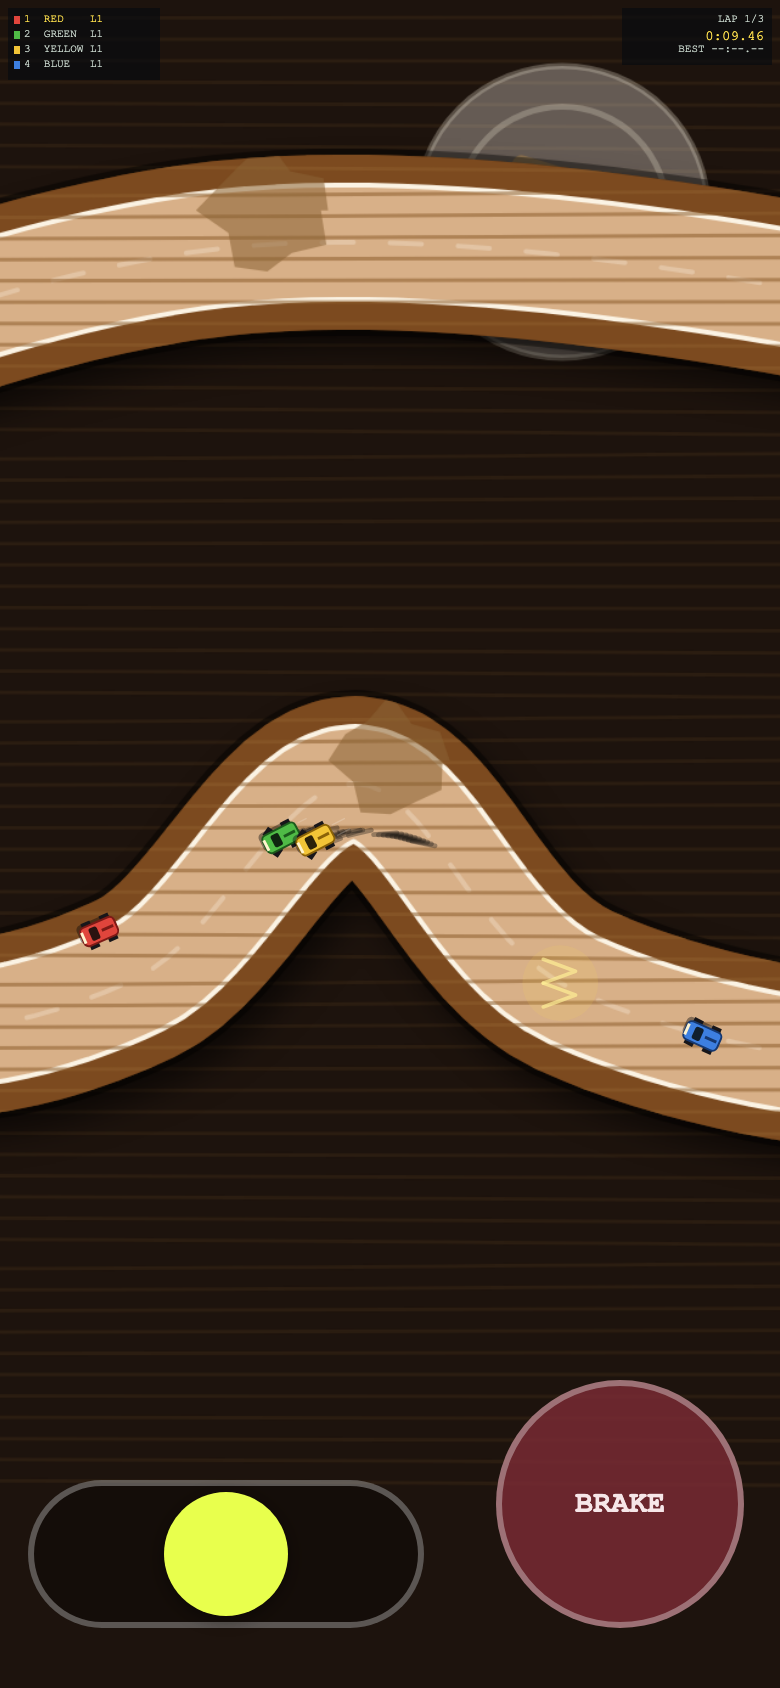
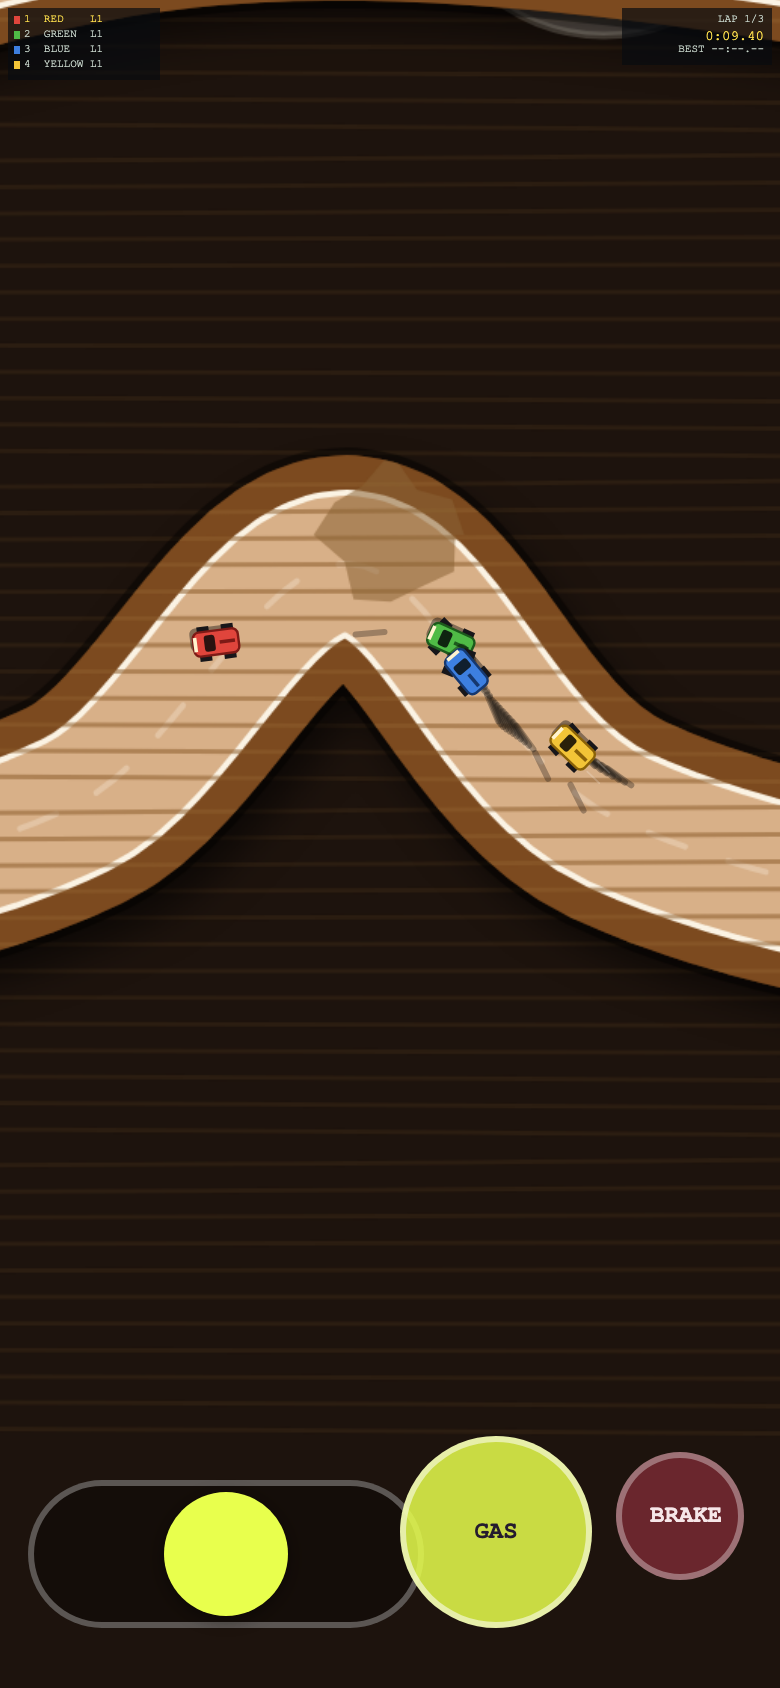
Put the throttle back on the button, and have the aid lift for corners
Making the brake somebody's only control was a mistake, and an instructive one.
The brake here takes most of the grip with it - that is the whole trick of the
game, and it is why a stab of it steps the back out - so handing a struggling
player the automatic throttle and one brake button gave them the hardest control
in the game as their only input. Lifting off costs nothing and slows you down.
So the throttle is a button again by default, with the brake smaller beside it,
and automatic is still there in the menu for anybody who wants it.

The driving aid now does the lifting too: it works out how fast the road ahead
will take and lets go of the throttle you are holding if you are over it. Only
the strongest setting reaches for the brake, and only when the car is pointed
more or less where it is going, because braking mid-slide is how you spin. It can
only ever slow you down, which is what keeps an aided lap honest on the board.

A phone now also starts against EASY. Learning to steer with a thumb and racing
three quick cars are two problems and there is no reason to hand somebody both.

Measured over 24 races of a deliberately clumsy thumb: off the road 4.0 a race to
2.1, laps completed 1.6 to 2.7, best lap 17.2s to 13.8s. Hands off the wheel the
car does not move at any setting, which is the line this aid does not cross.

One bug on the way: the touch defaults were being applied from where the controls
[…]

diff --git a/src/main.js b/src/main.js
@@ -12,7 +12,7 @@ import {
 } from './input.js';
 import { isTouchDevice } from './touch.js';
 import { TouchDrive } from './touchdrive.js';
-import { ASSIST, roadDemand } from './assist.js';
+import { ASSIST, easeOff, roadDemand } from './assist.js';
 import { createRace, formatLap, lapMs } from './game/state.js';
 import { step } from './game/sim.js';
 import { TRACKS, loadTrack, trackByKey } from './game/tracks.js';
@@ -115,8 +115,6 @@ if (onTouchDevice) {
   // Only worth offering where there is a thumb to save.
   document.getElementById('throttleRow').classList.remove('hidden');
   document.getElementById('assistRow').classList.remove('hidden');
-  setThrottle(globalThis.localStorage?.getItem('webracing.throttle') !== 'hold');
-  setAssist(globalThis.localStorage?.getItem('webracing.assist') || 'some');
   devices.touch = touch;
 }
 
@@ -281,6 +279,7 @@ function frame(now) {
       // steering comes out as half a turn of lock, and mixed with wherever the
       // road goes if the steering aid is on.
       touch.road = touch.assist ? roadDemand(game.state, game.seat) : 0;
+      touch.ease = easeOff(game.state, game.seat, touch.assist);
       touch.advance();
       game.transport.sample(tick);
       if (!game.transport.ready(tick)) break;
@@ -663,7 +662,7 @@ renderBindings();
 // --- Menu --------------------------------------------------------------------
 
 let mode = '1';
-let difficulty = 'normal';
+let difficulty = globalThis.localStorage?.getItem('webracing.difficulty') || 'normal';
 let trackKey = TRACKS[0].key;
 
 function lapCount() {
@@ -705,12 +704,19 @@ document.querySelectorAll('[data-mode]').forEach((btn) => {
   });
 });
 
-document.querySelectorAll('[data-difficulty]').forEach((btn) => {
-  btn.addEventListener('click', () => {
-    difficulty = btn.dataset.difficulty;
-    document.querySelectorAll('[data-difficulty]').forEach((b) => b.classList.toggle('active', b === btn));
-    renderScores(trackKey, boardTier());
+function setDifficulty(key) {
+  difficulty = key;
+  document.querySelectorAll('[data-difficulty]').forEach((b) => {
+    b.classList.toggle('active', b.dataset.difficulty === key);
   });
+  try {
+    globalThis.localStorage?.setItem('webracing.difficulty', key);
+  } catch { /* private mode */ }
+  renderScores(trackKey, boardTier());
+}
+
+document.querySelectorAll('[data-difficulty]').forEach((btn) => {
+  btn.addEventListener('click', () => setDifficulty(btn.dataset.difficulty));
 });
 
 document.querySelectorAll('[data-sound]').forEach((btn) => {
@@ -897,6 +903,20 @@ addEventListener('pointerdown', startMusicOnFirstGesture);
 addEventListener('keydown', startMusicOnFirstGesture);
 
 showLocalSeats();
+
+// What a phone starts with, once everything the menu needs exists. Kept down
+// here on purpose: called from where the controls are attached, six hundred
+// lines up, setDifficulty assigns to a `let` that has not been declared yet -
+// which is a ReferenceError on every phone and invisible to a suite that never
+// loads the page.
+if (onTouchDevice) {
+  setThrottle(globalThis.localStorage?.getItem('webracing.throttle') === 'auto');
+  setAssist(globalThis.localStorage?.getItem('webracing.assist') || 'lots');
+  // A gentler field to learn against: three NORMAL cars while you are also
+  // learning to steer with a thumb is two problems at once.
+  if (!globalThis.localStorage?.getItem('webracing.difficulty')) setDifficulty('easy');
+}
+
 renderScores(trackKey, boardTier());
 syncScores();
 sizeCanvas();

diff --git a/src/assist.js b/src/assist.js
@@ -15,7 +15,7 @@
  */
 
 import { TOP_SPEED } from './constants.js';
-import { pointAt } from './game/path.js';
+import { bendAhead, pointAt } from './game/path.js';
 
 /** How far up the road it reads, at a crawl and at speed. */
 const LOOK_NEAR = 95;
@@ -58,10 +58,50 @@ export function roadDemand(state, seat) {
 }
 
 /**
+ * Coming off the power for a corner, which is the other half of the aid.
+ *
+ * The brake in this game takes most of the grip with it - that is the whole
+ * trick of the thing, and it is why a stab of it steps the back out. Which makes
+ * it completely the wrong control to hand somebody who is struggling. Lifting
+ * off costs nothing and slows you down, so that is what this does: it works out
+ * how fast the road ahead will actually take, and if you are over it, it lets go
+ * of the throttle you are holding.
+ *
+ * It can only ever slow you down. There is no version of this that makes you
+ * quicker than somebody who lifted at the right moment on a keyboard, which is
+ * what keeps an aided lap honest on the record board.
+ *
+ * At the strongest setting it will use the brake as well, and only when the car
+ * is pointed more or less where it is going - braking mid-slide is how you spin,
+ * and an aid that spun you would be worse than no aid.
+ */
+const LOOK_AHEAD = 165;
+const CORNER_BITE = 0.82;
+const SLIDING = 70;
+
+export function easeOff(state, seat, strength) {
+  const car = state?.cars?.[seat];
+  if (!strength || !car || car.mode !== 'run' || !state.track) return { lift: false, brake: false };
+  const { path } = state.track;
+  const speed = Math.sqrt(car.vx * car.vx + car.vy * car.vy);
+  const bend = bendAhead(path, car.along + 20, LOOK_AHEAD);
+  const takes = TOP_SPEED * state.track.handling.top * (1 - bend * CORNER_BITE);
+  const over = speed / Math.max(60, takes);
+  // Some help lifts late and only for the worst of it; lots lifts early. The
+  // margin on top matters: without it the strongest setting lifted on a straight,
+  // because a table with a handling penalty makes the speed the road "takes"
+  // fractionally lower than the speed the car will actually reach.
+  const lift = over > 1.06 + (1 - strength) * 0.3;
+  const brake = strength > 0.7 && over > 1.3 && Math.abs(car.slide) < SLIDING;
+  return { lift, brake };
+}
+
+/**
  * How much of that gets mixed in.
  *
  * Off is the keyboard's deal: what you press is what the car does. The other two
- * let the road decide *how much* lock, while you decide which way - see blend().
+ * let the road decide *how much* lock while you decide which way - see blend() -
+ * and take their foot off for a corner you were going to arrive at too quickly.
  */
 export const ASSIST = {
   off: { key: 'off', label: 'Off', strength: 0 },

diff --git a/src/touchdrive.js b/src/touchdrive.js
@@ -94,6 +94,8 @@ export class TouchDrive extends TouchControls {
      */
     this.assist = 0;
     this.road = 0;
+    /** And whether it wants the power off for what is coming. */
+    this.ease = { lift: false, brake: false };
   }
 
   /** @param {{root, stick, knob, gas, brake}} el */
@@ -211,6 +213,11 @@ export class TouchDrive extends TouchControls {
     // Foot down unless you have asked for the brake. Local, like the duty cycle
     // above: the simulation is handed an ordinary mask and never knows.
     if (this.auto && !(pedals & BTN.SWITCH)) pedals |= BTN.FIRE;
+    // And off again for a corner you were going to arrive at too fast. Lifting
+    // is free; the brake costs grip, so the aid only reaches for it when it is
+    // set high and the car is pointed where it is going.
+    if (this.ease.lift) pedals &= ~BTN.FIRE;
+    if (this.ease.brake) pedals |= BTN.SWITCH;
     this.mask = pedals | steer;
   }
 

diff --git a/index.html b/index.html
@@ -70,7 +70,7 @@
         </div>
 
         <div class="row hidden" id="assistRow">
-          <label>Steering aid</label>
+          <label>Driving aid</label>
           <div class="btns">
             <button data-assist="off">Off</button>
             <button data-assist="some" class="active">Some</button>
@@ -81,8 +81,8 @@
         <div class="row hidden" id="throttleRow">
           <label>Throttle</label>
           <div class="btns">
-            <button data-throttle="auto" class="active">Automatic</button>
-            <button data-throttle="hold">Hold it yourself</button>
+            <button data-throttle="hold" class="active">Hold it</button>
+            <button data-throttle="auto">Automatic</button>
           </div>
         </div>
 

diff --git a/README.md b/README.md
@@ -41,10 +41,12 @@ Then open http://localhost:5173/. There is no `npm install`.
 Every key can be changed in the menu. Gamepads need no setting up: the first two
 share with the keyboard players, a third and fourth get seats of their own.
 
-On a phone the car drives itself and the one button is the brake, because
-holding a throttle for two minutes with one thumb while steering with the other
-leaves nothing spare — and what you actually decide, corner by corner, is when to
-come *off* the power. You can hold it yourself instead, from the menu.
+On a phone you hold the throttle and the brake is the smaller button beside it.
+That was the other way round for a while — the car drove itself and braking was
+your only control — and it was a mistake: the brake here takes most of the grip
+with it, which is the whole trick of the game and completely the wrong thing to
+hand somebody who is struggling. Lifting off costs nothing and slows you down.
+The automatic throttle is still there in the menu if you want it.
 
 Steering is the whole bottom-left corner, and it is **relative**: wherever your
 thumb lands is straight ahead, and you steer by moving from there. There is no
@@ -54,12 +56,18 @@ bitmask is what goes over the wire and what makes a lap set on a phone comparabl
 with one set on a keyboard, so the phone presses it for a share of the ticks
 instead of all of them and the car settles at that share.
 
-There is also a **steering aid**, on by default, in two strengths. You say which
-way and it decides how much: a little lock where the corner wants a lot becomes a
-lot, a lot where it wants a little becomes a little, and asking the wrong way
-winds you back towards straight rather than turning the wheel for you. It is
-aimed at the thing that actually makes a phone hard — judging how far to move a
-thumb you cannot feel.
+There is also a **driving aid**, in two strengths, on the stronger one by
+default. You say which way and it decides how much: a little lock where the
+corner wants a lot becomes a lot, a lot where it wants a little becomes a little,
+and asking the wrong way winds you back towards straight rather than turning the
+wheel for you. It also lifts off for a corner you were about to arrive at too
+quickly — lifting, not braking, because braking is the thing that costs grip.
+Both halves are aimed at what actually makes a phone hard: judging how far to
+move a thumb you cannot feel, and how fast is too fast for what is coming.
+
+A phone also starts against EASY opponents. Learning to steer with a thumb and
+racing three quick cars are two problems, and there is no reason to hand somebody
+both at once.
 
 **A hand that is not on the wheel gets nothing**, at any strength, and that part
 is not negotiable. The first version helped hardest when you were asking for
@@ -67,7 +75,8 @@ least, which felt lovely and was an autopilot: measured over 24 races with nobod
 touching the wheel it completed 2.9 laps of 3, finished third of four and set a
 13.18s lap — quicker than the thumb it was meant to be helping. Laps like that
 would have gone on the record board. With a thumb on it, the aid takes falling
-off the road from 4.0 a race to 2.8 and laps completed from 1.6 to 2.6.
+off the road from 4.0 a race to 2.1 and laps completed from 1.6 to 2.7, over 24
+races of a deliberately clumsy driver.
 
 All of this is input, not physics. The aid, the automatic throttle and the
 part-pressed steering all decide *what gets pressed*; the car itself is identical
